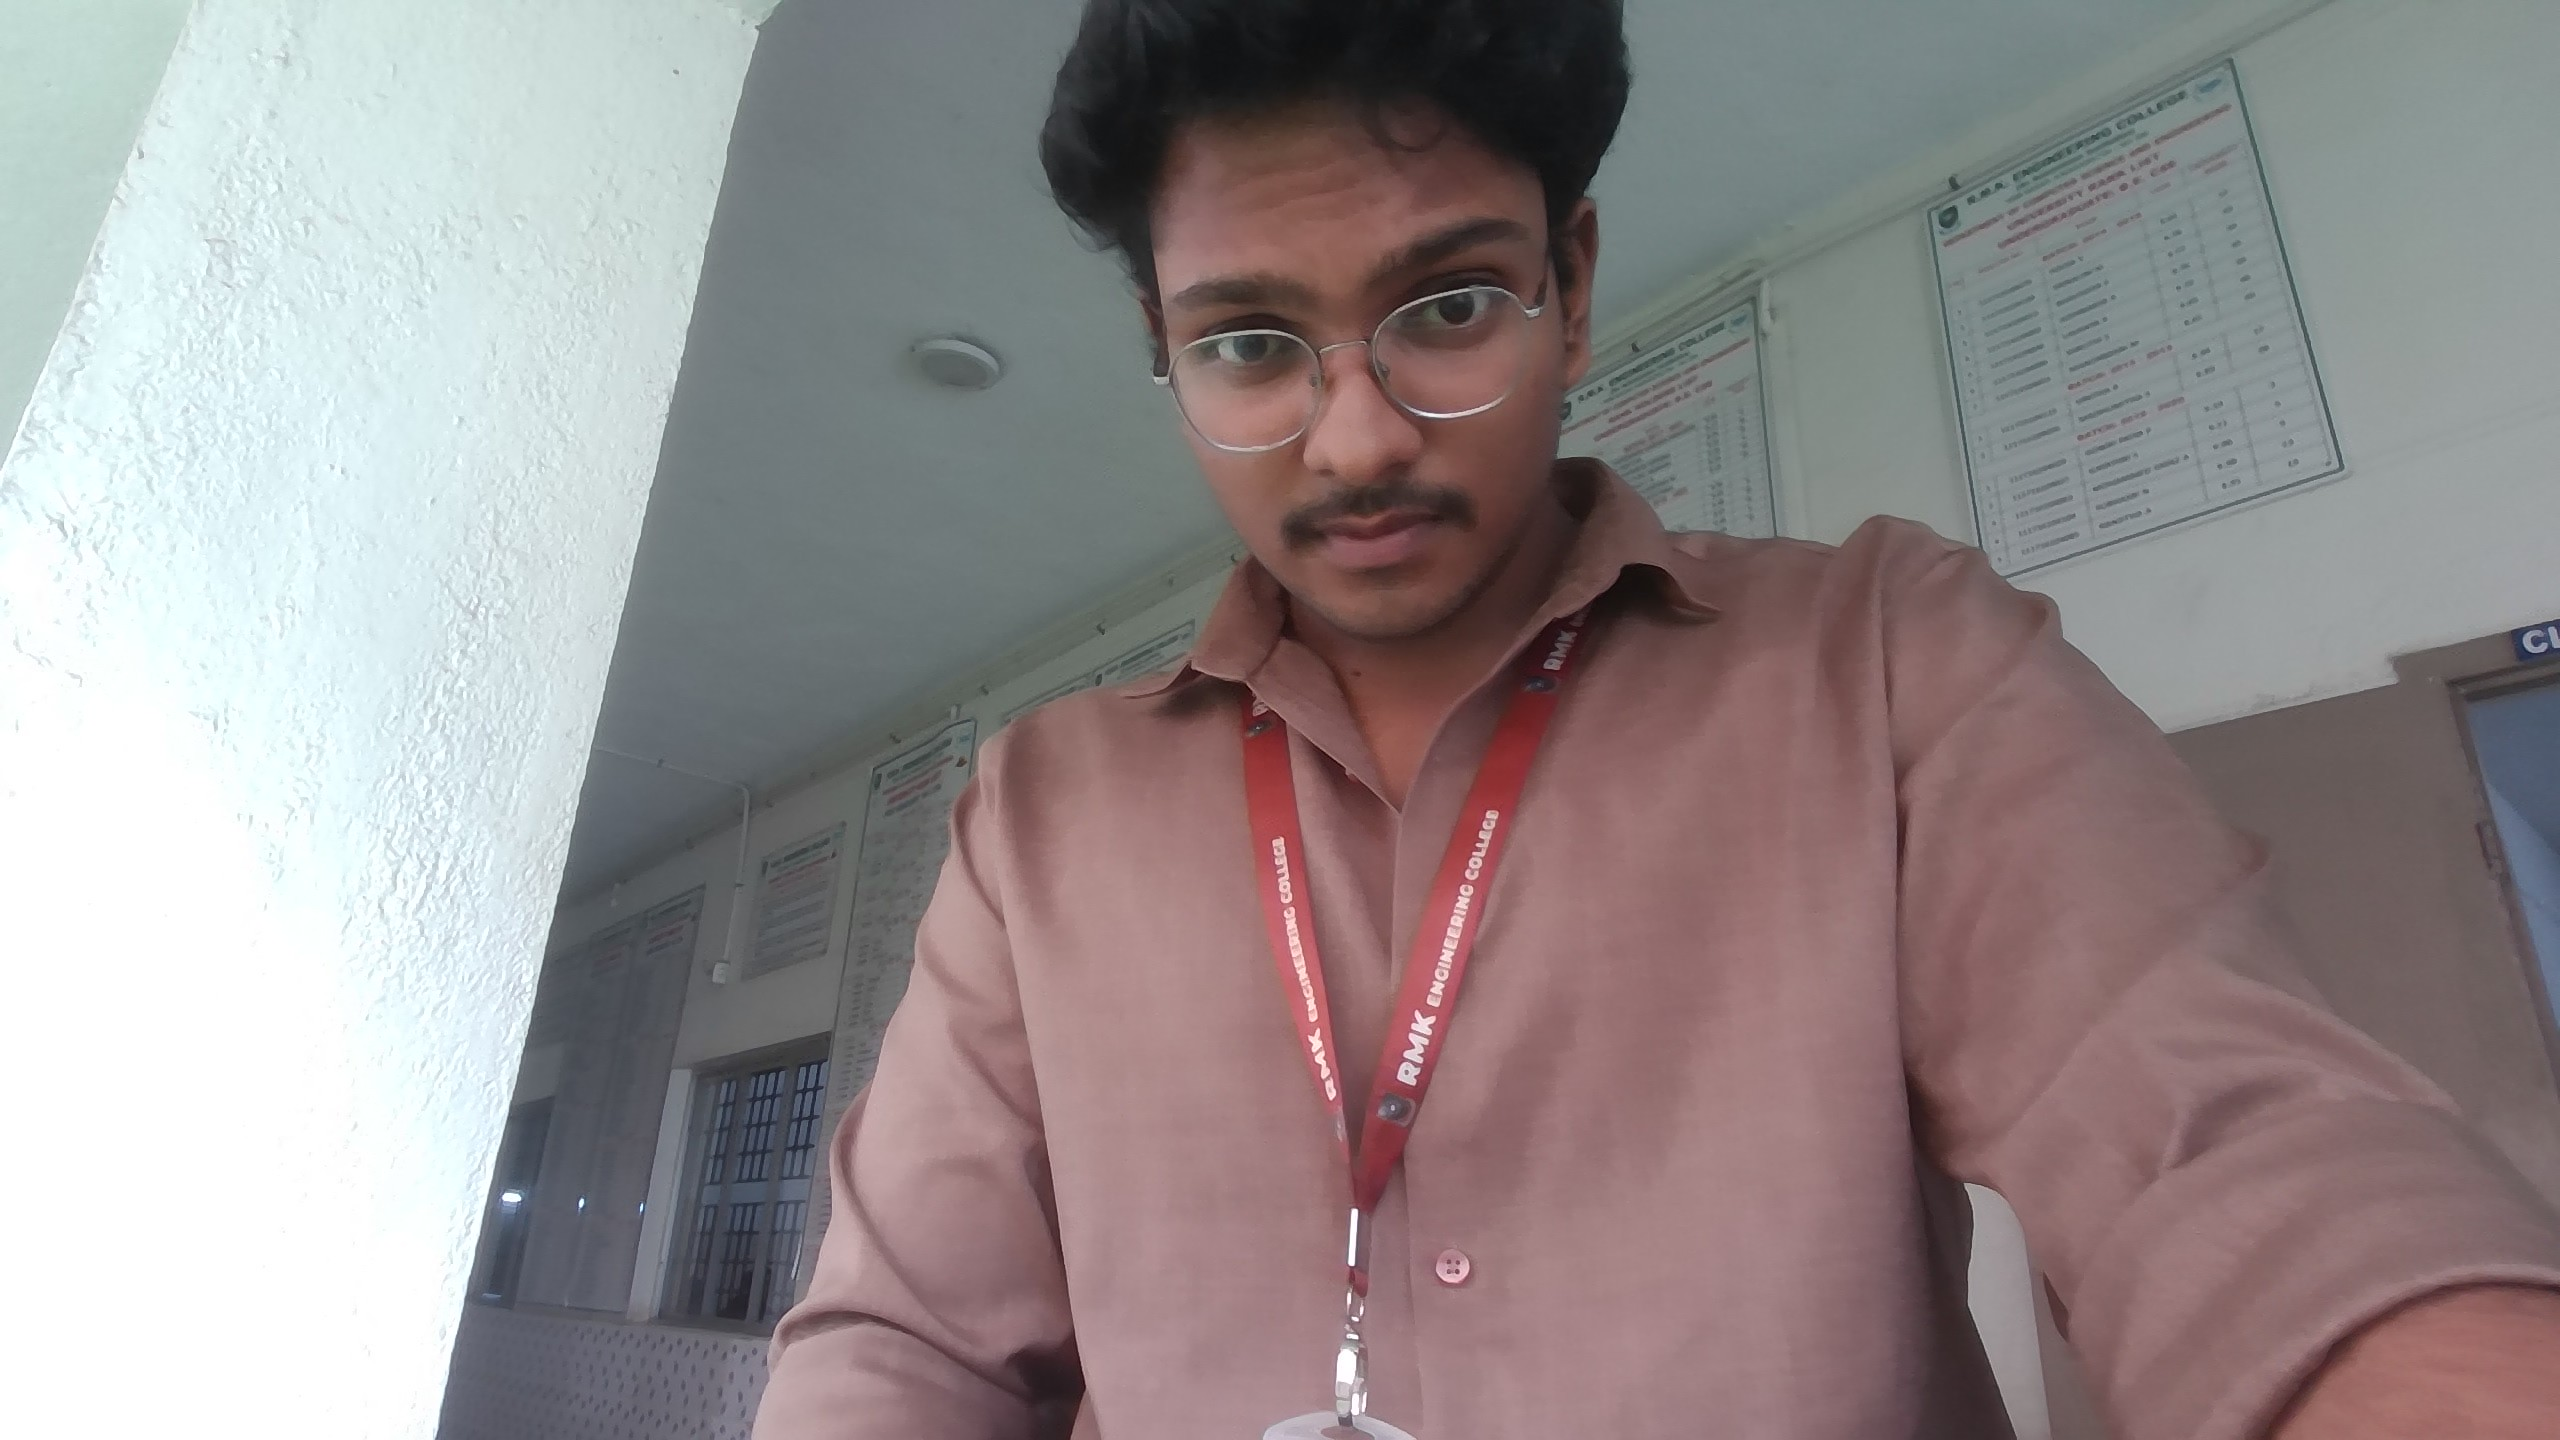
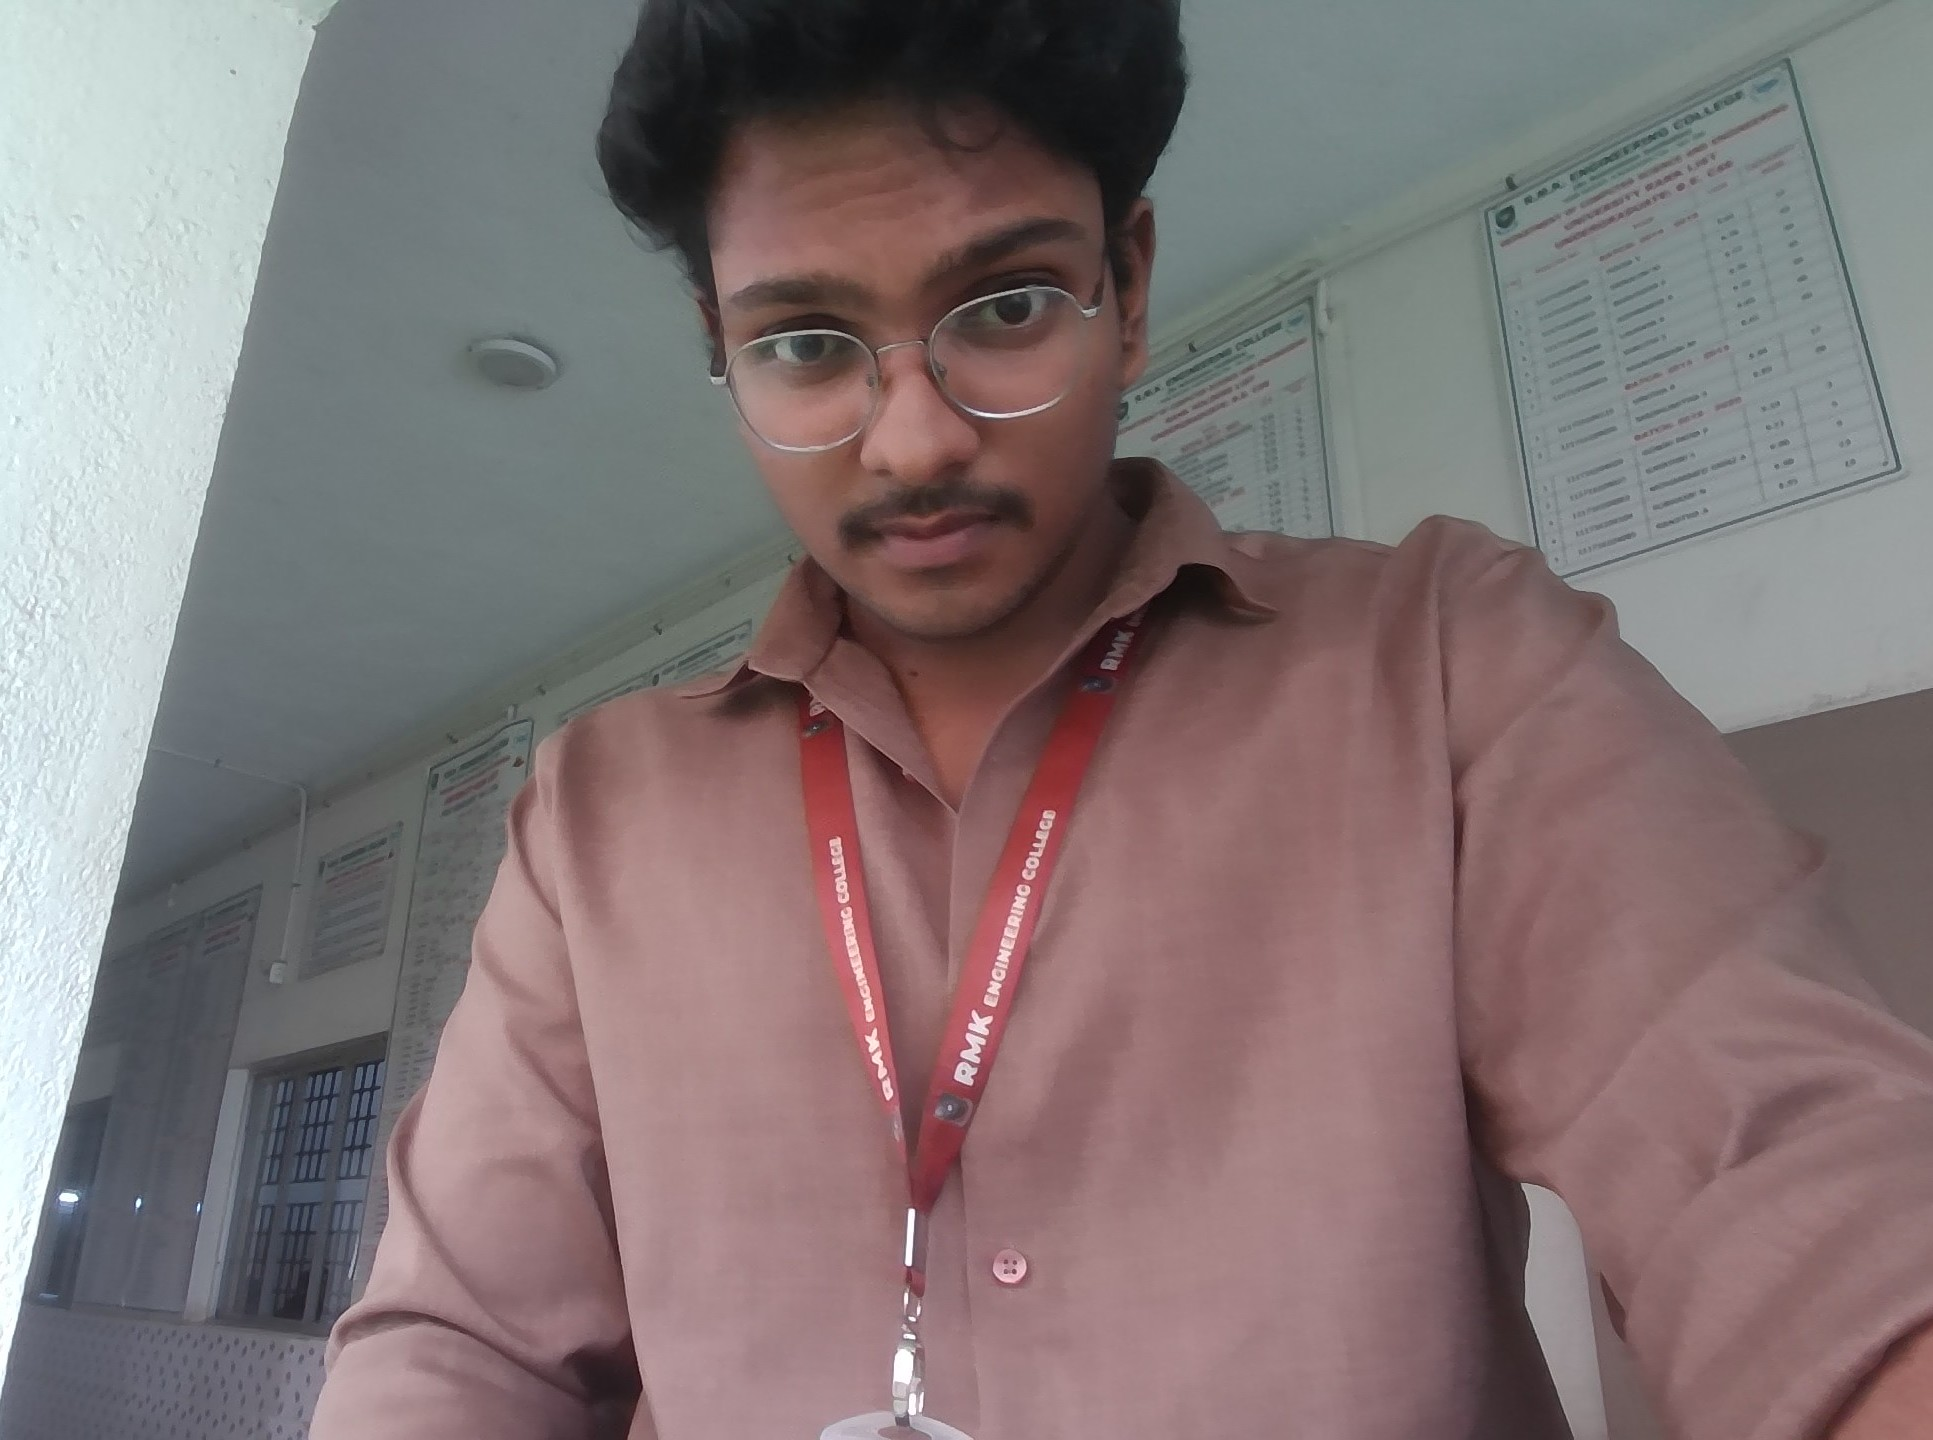
feat: initialize team data and import member profile images

diff --git a/data/team.ts b/data/team.ts
@@ -338,7 +338,7 @@ export const teamData: TeamMember[] = [
     domain: 'Design',
     teamCategory: 'Design Team',
     bio: 'Creating visual storyboards and brand collateral for developer summits.',
-    avatarUrl: 'https://images.unsplash.com/photo-1517841905240-472988babdf9?auto=format&fit=crop&w=400&q=80',
+    avatarUrl: '/images/family/Shree Shreya P.jpeg',
     socials: {
       linkedin: 'https://linkedin.com',
     },
